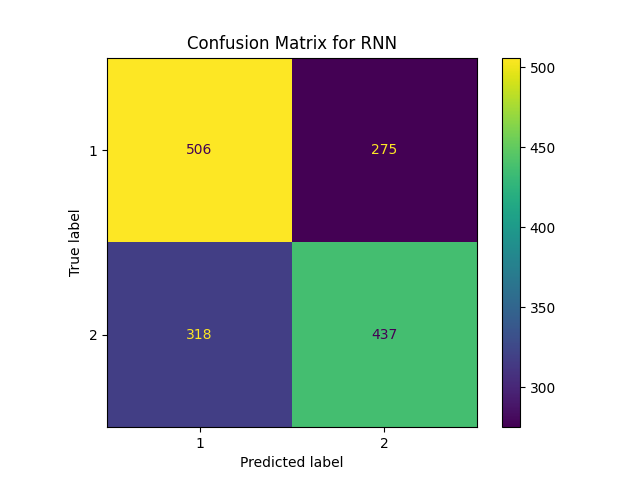
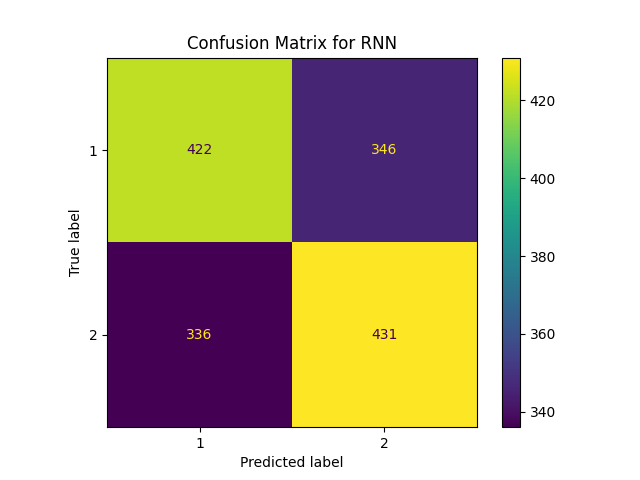
Add fight prediction examples and enhance prediction functionality
- Introduced `predict_example.py` with examples for predicting fights using fighter IDs, manual data, and different models.
- Enhanced `predict.py` with functions to retrieve fighter statistics, prepare data for predictions, and print results.
- Updated model performance metrics in `model_performances.csv` with new accuracy values after retraining.
- Added error handling for prediction processes to improve robustness.

diff --git a/code/predict.py b/code/predict.py
@@ -1,0 +1,269 @@
+import torch
+import pandas as pd
+import numpy as np
+from data import load_ufc_data
+from models import initialize_models
+from config import DEVICE, DATA_PATH
+from preprocessing import parse_height, parse_reach, parse_strike, parse_control_time
+import os
+
+def get_fighter_stats(fighter_id):
+    """
+    Get fighter statistics from the UFC events CSV file.
+    
+    Args:
+        fighter_id: The UFC stats profile URL of the fighter
+        
+    Returns:
+        Dictionary containing the fighter's statistics
+    """
+    # Load the UFC events data
+    fight_data_path = os.path.join(DATA_PATH, "ufc_events.csv")
+    fight_data = pd.read_csv(fight_data_path)
+    
+    # Find all fights where this fighter participated
+    fighter1_fights = fight_data[fight_data['Fighter1_ID'] == fighter_id]
+    fighter2_fights = fight_data[fight_data['Fighter2_ID'] == fighter_id]
+    
+    if len(fighter1_fights) == 0 and len(fighter2_fights) == 0:
+        raise ValueError(f"Fighter with ID {fighter_id} not found in the dataset")
+    
+    # Combine all fights
+    all_fights = pd.concat([fighter1_fights, fighter2_fights])
+    
+    # Calculate statistics
+    stats = {}
+    
+    # Get basic info from the most recent fight
+    most_recent_fight = all_fights.iloc[-1]
+    if most_recent_fight['Fighter1_ID'] == fighter_id:
+        stats['Height'] = most_recent_fight['Fighter1_Height']
+        stats['Reach'] = most_recent_fight['Fighter1_Reach']
+        stats['Stance'] = most_recent_fight['Fighter1_Stance']
+    else:
+        stats['Height'] = most_recent_fight['Fighter2_Height']
+        stats['Reach'] = most_recent_fight['Fighter2_Reach']
+        stats['Stance'] = most_recent_fight['Fighter2_Stance']
+    
+    # Calculate age (using most recent fight date)
+    stats['Age'] = (pd.to_datetime(most_recent_fight['EventDate']) - 
+                   pd.to_datetime(most_recent_fight['Fighter1_DOB'] if most_recent_fight['Fighter1_ID'] == fighter_id 
+                                else most_recent_fight['Fighter2_DOB'])).days / 365.25
+    
+    # Calculate fight statistics
+    total_fights = len(all_fights)
+    wins = 0
+    losses = 0
+    finishes = 0
+    total_control_time = 0
+    total_submission_attempts = 0
+    total_leg_strikes = 0
+    total_clinch_strikes = 0
+    total_strikes_landed = 0
+    total_strikes_attempted = 0
+    total_takedowns_landed = 0
+    total_takedowns_attempted = 0
+    total_reversals = 0
+    
+    for _, fight in all_fights.iterrows():
+        is_fighter1 = fight['Fighter1_ID'] == fighter_id
+        
+        # Count wins and losses
+        if fight['Winner'] == '1' and is_fighter1:
+            wins += 1
+            if 'Decision' not in fight['Method']:
+                finishes += 1
+        elif fight['Winner'] == '2' and not is_fighter1:
+            wins += 1
+            if 'Decision' not in fight['Method']:
+                finishes += 1
+        else:
+            losses += 1
+        
+        # Sum up fight statistics
+        if is_fighter1:
+            total_control_time += parse_control_time(fight['Fighter1_Control_Time'])
+            total_submission_attempts += float(fight['Fighter1_Submission_Attempts'])
+            leg_strikes = parse_strike(fight['Fighter1_Leg_Strikes'])[0]
+            clinch_strikes = parse_strike(fight['Fighter1_Clinch_Strikes'])[0]
+            strikes = parse_strike(fight['Fighter1_Significant_Strikes'])
+            takedowns = parse_strike(fight['Fighter1_Takedowns'])
+            total_reversals += float(fight['Fighter1_Reversals'])
+        else:
+            total_control_time += parse_control_time(fight['Fighter2_Control_Time'])
+            total_submission_attempts += float(fight['Fighter2_Submission_Attempts'])
+            leg_strikes = parse_strike(fight['Fighter2_Leg_Strikes'])[0]
+            clinch_strikes = parse_strike(fight['Fighter2_Clinch_Strikes'])[0]
+            strikes = parse_strike(fight['Fighter2_Significant_Strikes'])
+            takedowns = parse_strike(fight['Fighter2_Takedowns'])
+            total_reversals += float(fight['Fighter2_Reversals'])
+        
+        total_leg_strikes += leg_strikes
+        total_clinch_strikes += clinch_strikes
+        total_strikes_landed += strikes[0]
+        total_strikes_attempted += strikes[1]
+        total_takedowns_landed += takedowns[0]
+        total_takedowns_attempted += takedowns[1]
+    
+    # Calculate averages
+    stats['AvgFightTime'] = 600  # Default to 10 minutes if not available
+    stats['TimeSinceLastFight'] = 90  # Default to 90 days if not available
+    stats['FinishRate'] = finishes / wins if wins > 0 else 0
+    stats['Wins'] = wins
+    stats['Losses'] = losses
+    stats['AvgControlTime'] = total_control_time / total_fights
+    stats['AvgSubmissionAttempts'] = total_submission_attempts / total_fights
+    stats['AvgLegStrikes'] = total_leg_strikes / total_fights
+    stats['AvgClinchStrikes'] = total_clinch_strikes / total_fights
+    stats['AvgStrikesLanded'] = total_strikes_landed / total_fights
+    stats['AvgStrikesAttempted'] = total_strikes_attempted / total_fights
+    stats['StrikeAccuracy'] = total_strikes_landed / total_strikes_attempted if total_strikes_attempted > 0 else 0
+    stats['AvgTakedownsLanded'] = total_takedowns_landed / total_fights
+    stats['AvgTakedownsAttempted'] = total_takedowns_attempted / total_fights
+    stats['AvgReversals'] = total_reversals / total_fights
+    
+    return stats
+
+def prepare_fighter_data(fighter1_data, fighter2_data):
+    """
+    Prepare fighter data for prediction by processing it in the same way as training data.
+    
+    Args:
+        fighter1_data: Dictionary containing Fighter1's statistics
+        fighter2_data: Dictionary containing Fighter2's statistics
+        
+    Returns:
+        Processed feature vector ready for model prediction
+    """
+    # Create feature dictionary
+    features = {}
+    
+    # Process Fighter1 data
+    features['Fighter1_Height_cm'] = parse_height(fighter1_data.get('Height', '0ft 0in'))
+    features['Fighter1_Reach_cm'] = parse_reach(fighter1_data.get('Reach', '0in'))
+    features['Fighter1_Age'] = float(fighter1_data.get('Age', 30))
+    features['Fighter1_AvgFightTime'] = float(fighter1_data.get('AvgFightTime', 0))
+    features['Fighter1_TimeSinceLastFight'] = float(fighter1_data.get('TimeSinceLastFight', 0))
+    features['Fighter1_FinishRate'] = float(fighter1_data.get('FinishRate', 0))
+    features['Fighter1_Wins'] = int(fighter1_data.get('Wins', 0))
+    features['Fighter1_Losses'] = int(fighter1_data.get('Losses', 0))
+    features['Fighter1_AvgControlTime'] = float(fighter1_data.get('AvgControlTime', 0))
+    features['Fighter1_AvgSubmissionAttempts'] = float(fighter1_data.get('AvgSubmissionAttempts', 0))
+    features['Fighter1_AvgLegStrikes'] = float(fighter1_data.get('AvgLegStrikes', 0))
+    features['Fighter1_AvgClinchStrikes'] = float(fighter1_data.get('AvgClinchStrikes', 0))
+    features['Fighter1_AvgStrikesLanded'] = float(fighter1_data.get('AvgStrikesLanded', 0))
+    features['Fighter1_AvgStrikesAttempted'] = float(fighter1_data.get('AvgStrikesAttempted', 0))
+    features['Fighter1_StrikeAccuracy'] = float(fighter1_data.get('StrikeAccuracy', 0))
+    features['Fighter1_AvgTakedownsLanded'] = float(fighter1_data.get('AvgTakedownsLanded', 0))
+    features['Fighter1_AvgTakedownsAttempted'] = float(fighter1_data.get('AvgTakedownsAttempted', 0))
+    features['Fighter1_AvgReversals'] = float(fighter1_data.get('AvgReversals', 0))
+    
+    # Process Fighter2 data
+    features['Fighter2_Height_cm'] = parse_height(fighter2_data.get('Height', '0ft 0in'))
+    features['Fighter2_Reach_cm'] = parse_reach(fighter2_data.get('Reach', '0in'))
+    features['Fighter2_Age'] = float(fighter2_data.get('Age', 30))
+    features['Fighter2_AvgFightTime'] = float(fighter2_data.get('AvgFightTime', 0))
+    features['Fighter2_TimeSinceLastFight'] = float(fighter2_data.get('TimeSinceLastFight', 0))
+    features['Fighter2_FinishRate'] = float(fighter2_data.get('FinishRate', 0))
+    features['Fighter2_Wins'] = int(fighter2_data.get('Wins', 0))
+    features['Fighter2_Losses'] = int(fighter2_data.get('Losses', 0))
+    features['Fighter2_AvgControlTime'] = float(fighter2_data.get('AvgControlTime', 0))
+    features['Fighter2_AvgSubmissionAttempts'] = float(fighter2_data.get('AvgSubmissionAttempts', 0))
+    features['Fighter2_AvgLegStrikes'] = float(fighter2_data.get('AvgLegStrikes', 0))
+    features['Fighter2_AvgClinchStrikes'] = float(fighter2_data.get('AvgClinchStrikes', 0))
+    features['Fighter2_AvgStrikesLanded'] = float(fighter2_data.get('AvgStrikesLanded', 0))
+    features['Fighter2_AvgStrikesAttempted'] = float(fighter2_data.get('AvgStrikesAttempted', 0))
+    features['Fighter2_StrikeAccuracy'] = float(fighter2_data.get('StrikeAccuracy', 0))
+    features['Fighter2_AvgTakedownsLanded'] = float(fighter2_data.get('AvgTakedownsLanded', 0))
+    features['Fighter2_AvgTakedownsAttempted'] = float(fighter2_data.get('AvgTakedownsAttempted', 0))
+    features['Fighter2_AvgReversals'] = float(fighter2_data.get('AvgReversals', 0))
+    
+    # Add stance features (one-hot encoded)
+    stances = ['Orthodox', 'Southpaw', 'Switch']
+    for stance in stances:
+        features[f'Fighter1_Stance_{stance}'] = 1 if fighter1_data.get('Stance', 'Orthodox') == stance else 0
+        features[f'Fighter2_Stance_{stance}'] = 1 if fighter2_data.get('Stance', 'Orthodox') == stance else 0
+    
+    # Convert to numpy array and reshape for model input
+    feature_vector = np.array(list(features.values())).reshape(1, -1)
+    
+    return feature_vector
+
+def predict_fight(fighter1_id=None, fighter2_id=None, fighter1_data=None, fighter2_data=None, model_name='Random Forest'):
+    """
+    Predict the outcome of a fight between two fighters.
+    
+    Args:
+        fighter1_id: The UFC stats profile URL of Fighter1 (optional)
+        fighter2_id: The UFC stats profile URL of Fighter2 (optional)
+        fighter1_data: Dictionary containing Fighter1's statistics (optional)
+        fighter2_data: Dictionary containing Fighter2's statistics (optional)
+        model_name: Name of the model to use for prediction (default: 'Random Forest')
+        
+    Returns:
+        Dictionary containing prediction results and probabilities
+    """
+    # Get fighter data if IDs are provided
+    if fighter1_id:
+        fighter1_data = get_fighter_stats(fighter1_id)
+    if fighter2_id:
+        fighter2_data = get_fighter_stats(fighter2_id)
+    
+    if not fighter1_data or not fighter2_data:
+        raise ValueError("Either fighter IDs or fighter data must be provided")
+    
+    # Load the trained model
+    models = initialize_models(len(prepare_fighter_data({}, {}).flatten()), DEVICE)
+    model = models.get(model_name)
+    
+    if model is None:
+        raise ValueError(f"Model '{model_name}' not found. Available models: {list(models.keys())}")
+    
+    # Prepare the feature vector
+    X = prepare_fighter_data(fighter1_data, fighter2_data)
+    
+    # Make prediction
+    if model_name in ['FCNN', 'RNN', 'LSTM', 'Transformer']:
+        # Load model state if it exists
+        model_path = os.path.join(DATA_PATH, f"{model_name}.pth")
+        if os.path.exists(model_path):
+            model.load_state_dict(torch.load(model_path))
+        model.eval()
+        with torch.no_grad():
+            X_tensor = torch.tensor(X.astype(np.float32)).to(DEVICE)
+            outputs = model(X_tensor)
+            probabilities = torch.softmax(outputs, dim=1)
+            predicted_class = torch.argmax(outputs, dim=1).item()
+            probabilities = probabilities.cpu().numpy()[0]
+    else:
+        # For scikit-learn models
+        probabilities = model.predict_proba(X)[0]
+        predicted_class = model.predict(X)[0]
+    
+    # Prepare result dictionary
+    result = {
+        'winner': 'Fighter 1' if predicted_class == 0 else 'Fighter 2',
+        'probabilities': {
+            'Fighter 1': float(probabilities[0]),
+            'Fighter 2': float(probabilities[1])
+        },
+        'model_used': model_name
+    }
+    
+    return result
+
+def print_prediction_result(result):
+    """
+    Print the prediction result in a formatted way.
+    
+    Args:
+        result: Dictionary containing prediction results
+    """
+    print("\nFight Prediction Results:")
+    print("-" * 50)
+    print(f"Model Used: {result['model_used']}")
+    print(f"Predicted Winner: {result['winner']}")
+    print("\nWin Probabilities:")
+    print(f"Fighter 1: {result['probabilities']['Fighter 1']:.2%}")
+    print(f"Fighter 2: {result['probabilities']['Fighter 2']:.2%}")
+    print("-" * 50) 

diff --git a/code/predict_example.py b/code/predict_example.py
@@ -1,0 +1,75 @@
+from predict import predict_fight, print_prediction_result
+
+# Example 1: Using fighter IDs (UFC stats profile URLs)
+fighter1_id = "http://ufcstats.com/fighter-details/19f8a2f6eecd92ac"  # Example ID
+fighter2_id = "http://ufcstats.com/fighter-details/9c442aaf149ea982"  # Example ID
+
+print("\nPredicting fight using fighter IDs:")
+try:
+    result = predict_fight(fighter1_id=fighter1_id, fighter2_id=fighter2_id, model_name='Random Forest')
+    print_prediction_result(result)
+except Exception as e:
+    print(f"Error: {str(e)}")
+
+# Example 2: Using manual fighter data
+fighter1 = {
+    'Height': '5ft 11in',
+    'Reach': '72in',
+    'Age': 30,
+    'Stance': 'Orthodox',
+    'AvgFightTime': 600,  # 10 minutes
+    'TimeSinceLastFight': 90,  # days
+    'FinishRate': 0.7,
+    'Wins': 15,
+    'Losses': 3,
+    'AvgControlTime': 120,  # seconds
+    'AvgSubmissionAttempts': 2,
+    'AvgLegStrikes': 15,
+    'AvgClinchStrikes': 10,
+    'AvgStrikesLanded': 80,
+    'AvgStrikesAttempted': 150,
+    'StrikeAccuracy': 0.53,
+    'AvgTakedownsLanded': 2,
+    'AvgTakedownsAttempted': 4,
+    'AvgReversals': 1
+}
+
+fighter2 = {
+    'Height': '6ft 0in',
+    'Reach': '74in',
+    'Age': 28,
+    'Stance': 'Southpaw',
+    'AvgFightTime': 540,  # 9 minutes
+    'TimeSinceLastFight': 60,  # days
+    'FinishRate': 0.6,
+    'Wins': 12,
+    'Losses': 2,
+    'AvgControlTime': 90,  # seconds
+    'AvgSubmissionAttempts': 1,
+    'AvgLegStrikes': 12,
+    'AvgClinchStrikes': 8,
+    'AvgStrikesLanded': 70,
+    'AvgStrikesAttempted': 130,
+    'StrikeAccuracy': 0.54,
+    'AvgTakedownsLanded': 3,
+    'AvgTakedownsAttempted': 5,
+    'AvgReversals': 2
+}
+
+print("\nPredicting fight using manual fighter data:")
+try:
+    result = predict_fight(fighter1_data=fighter1, fighter2_data=fighter2, model_name='Random Forest')
+    print_prediction_result(result)
+except Exception as e:
+    print(f"Error: {str(e)}")
+
+# Example 3: Using different models
+models = ['Random Forest', 'Gradient Boosting', 'FCNN']
+
+print("\nComparing predictions from different models:")
+for model_name in models:
+    try:
+        result = predict_fight(fighter1_id=fighter1_id, fighter2_id=fighter2_id, model_name=model_name)
+        print_prediction_result(result)
+    except Exception as e:
+        print(f"\nError using {model_name}: {str(e)}") 
